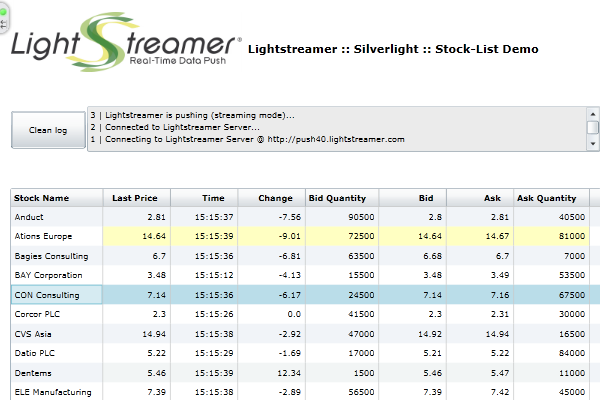
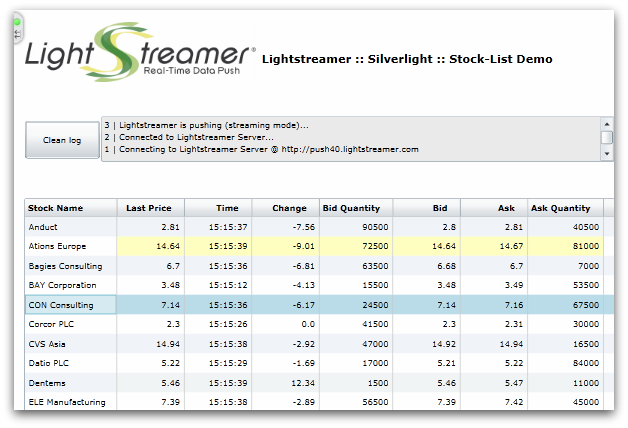
Restyle README and screenshot

Changed region(s): [[0.0, 0.0, 1.0, 0.99]]

diff --git a/README.md b/README.md
@@ -1,11 +1,14 @@
-# Lightstreamer - Basic Stock-List Demo - Silverlight Client #
+# Lightstreamer - Basic Stock-List Demo - Silverlight Client 
 
 <!-- START DESCRIPTION lightstreamer-example-stocklist-client-silverlight -->
 
 This project contains a simple Silverlight version of the [Lightstreamer - Stock-List Demos - HTML Clients](https://github.com/Weswit/Lightstreamer-example-Stocklist-client-javascript) fed through a Lightstreamer server.
+## Live Demo
 
 [![screenshot](screen_silverlight_large.png)](http://demos.lightstreamer.com/Silverlight_StockListDemo)<br>
-An online demonstration is hosted on our servers at [http://demos.lightstreamer.com/Silverlight_StockListDemo](http://demos.lightstreamer.com/Silverlight_StockListDemo)
+###[![](http://demos.lightstreamer.com/site/img/play.png) View live demo](http://demos.lightstreamer.com/Silverlight_StockListDemo)<br>
+
+## Details
 
 This app uses the <b>Silverlight Client API for Lightstreamer</b> to handle the communications with Lightstreamer Server and uses a <b>Silverlight Grid</b> to display the real-time data pushed by Lightstreamer Server.<br>
 After launching the demo, the Silverlight application will automatically connect to Lightstreamer Server and will subscribe to 30 stock quotes.<br>
@@ -14,10 +17,15 @@ A Silverlight Grid is used to display the real-time data. You can sort on any co
 
 <!-- END DESCRIPTION lightstreamer-example-stocklist-client-silverlight -->
 
-# Build #
+## Install
 
-If you want to skip the build process of this demo please note that in the [deploy release](https://github.com/Weswit/Lightstreamer-example-Stocklist-client-silverlight/releases) of this project you can find the "deploy.zip" file that contains a deployment image of the demo, which includes the ".xap" file needed to contain all the resources that make up the demo (i.e. the demo DLL, the Lightstreamer client library DLL and, possibly, other SDK resources) and a container html page.
-This deployment image is ready to be deployed under Lightstreamer's internal Web Server, by copying all the contents into some subfolder of the "pages" directory.<br>
+* Note that, as prerequisite, the [Lightstreamer - Stock- List Demo - Java Adapter](https://github.com/Weswit/Lightstreamer-example-Stocklist-adapter-java) has to be deployed on your local Lightstreamer Server instance. Please check out that project and follow the installation instructions provided with it.
+* Launch Lightstreamer Server.
+* Download the deploy.zip file that you can find in the [deploy release](https://github.com/Weswit/Lightstreamer-example-StockList-client-winphone/releases) of this project and extract the deployment image of the demo, which includes the ".xap" file needed to contain all the resources that make up the demo (i.e. the demo DLL, the Lightstreamer client library DLL and, possibly, other SDK resources) and a container html page.
+* This deployment image is ready to be deployed under Lightstreamer's internal Web Server, copy the two files into some subfolder of the "pages" directory (ie "Silverlight_StockListDemo_Basic").<br>
+* Open the http://localhost:8080/Silverlight_StockListDemo_Basic/ in your favorite browser.
+
+## Build
 
 Otherwise, in order to proceed with the build process of this demo, this project includes the following sub-folders:
 * /Source<br>
@@ -36,15 +44,12 @@ Otherwise, in order to proceed with the build process of this demo, this project
 <br>
 The Silverlight Client Library is compatible with Silverlight environment version 3 or newer.
 
-# Deploy #
+### How to deploy the demo on your web server
 
-If you have skipped the build process you should get the deploy folder of this demo from the [latest release](https://github.com/Weswit/Lightstreamer-example-Stocklist-client-silverlight/releases) of this project.
-Otherwise you should complete the "deploy" folder with the built demo as compiled from the provided source files. Please note that the folder already contains a container html page, just as an example.<br>
+You should complete the "deploy" folder of this project with the built demo as compiled from the provided source files. Please note that the folder already contains a container html page, just as an example.<br>
 This deploy folder is ready to be deployed under Lightstreamer's internal Web Server, by copying all the contents into some subfolder of the "pages" directory.
 
 The demos are now ready to be launched.
-
-## How to deploy the demo on your web server ##
 
 By the current configuration, the demo tries to access Lightstreamer Server by using the protocol, hostname and port from which the "index.html" page was requested; in other words, the demo assumes that the static resources are deployed inside Lightstreamer Server.<br>
 
@@ -53,9 +58,9 @@ The configuration of the url to be used to connect to Lightstreamer Server shoul
 
 Then, in order to allow the page to get resources from a different server, the Web Server address has to be included in the "clientaccesspolicy" resource deployed under Lightstreamer Server. See the <silverlight_accesspolicy_enabled> element in the Server configuration file for details.
 
-# See Also #
+## See Also
 
-## Lightstreamer Adapters Needed by This Demo Client ##
+### Lightstreamer Adapters Needed by This Demo Client
 
 <!-- START RELATED_ENTRIES -->
 * [Lightstreamer - Stock-List Demo - Java Adapter](https://github.com/Weswit/Lightstreamer-example-Stocklist-adapter-java)
@@ -63,7 +68,7 @@ Then, in order to allow the page to get resources from a different server, the W
 
 <!-- END RELATED_ENTRIES -->
 
-## Related Projects ##
+### Related Projects
 
 * [Lightstreamer - Stock-List Demos - HTML Clients](https://github.com/Weswit/Lightstreamer-example-Stocklist-client-javascript)
 * [Lightstreamer - Basic Stock-List Demo - jQuery (jqGrid) Client](https://github.com/Weswit/Lightstreamer-example-StockList-client-jquery)
@@ -72,7 +77,7 @@ Then, in order to allow the page to get resources from a different server, the W
 * [Lightstreamer - Basic Stock-List Demo - .NET Client](https://github.com/Weswit/Lightstreamer-example-StockList-client-dotnet)
 * [Lightstreamer - Stock-List Demos - Flex Clients](https://github.com/Weswit/Lightstreamer-example-StockList-client-flex)
 
-# Lightstreamer Compatibility Notes #
+## Lightstreamer Compatibility Notes
 
-- Compatible with Lightstreamer Silverlight Client Library version 1.4 or newer.
-- For Lightstreamer Allegro (+ Silverlight Client API support), Presto, Vivace.
+* Compatible with Lightstreamer Silverlight Client Library version 1.4 or newer.
+* For Lightstreamer Allegro (+ Silverlight Client API support), Presto, Vivace.
